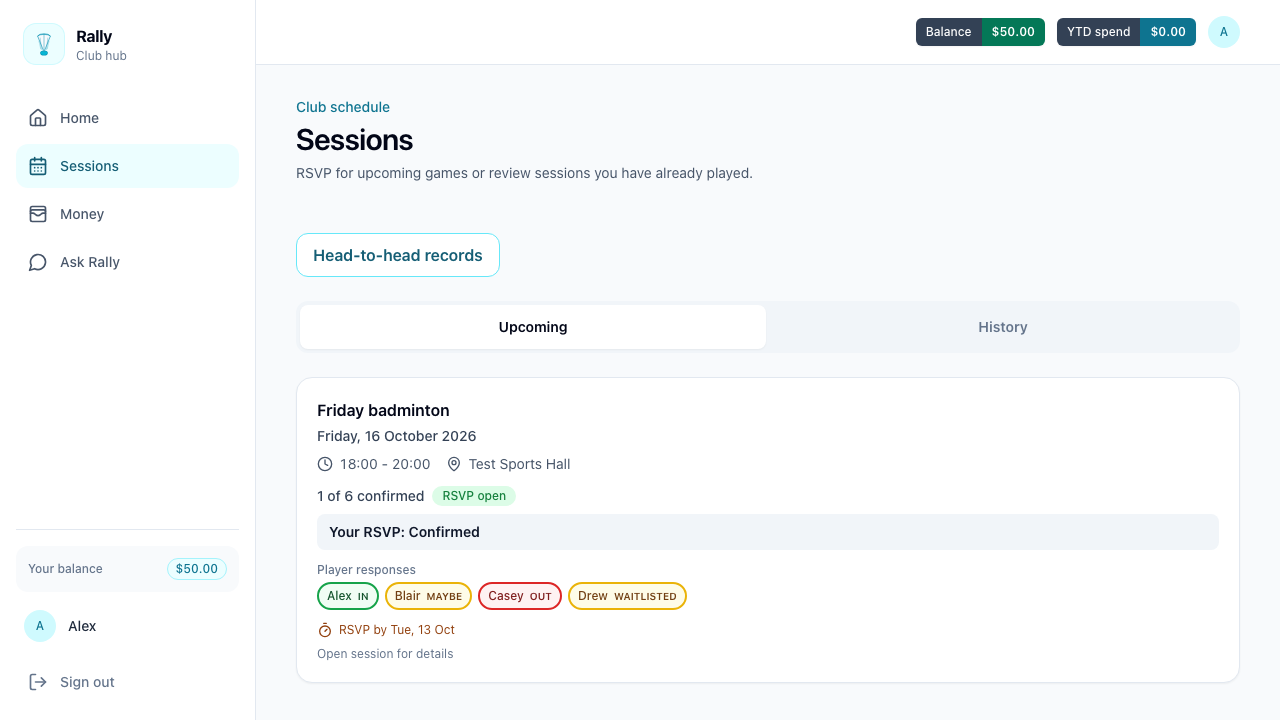
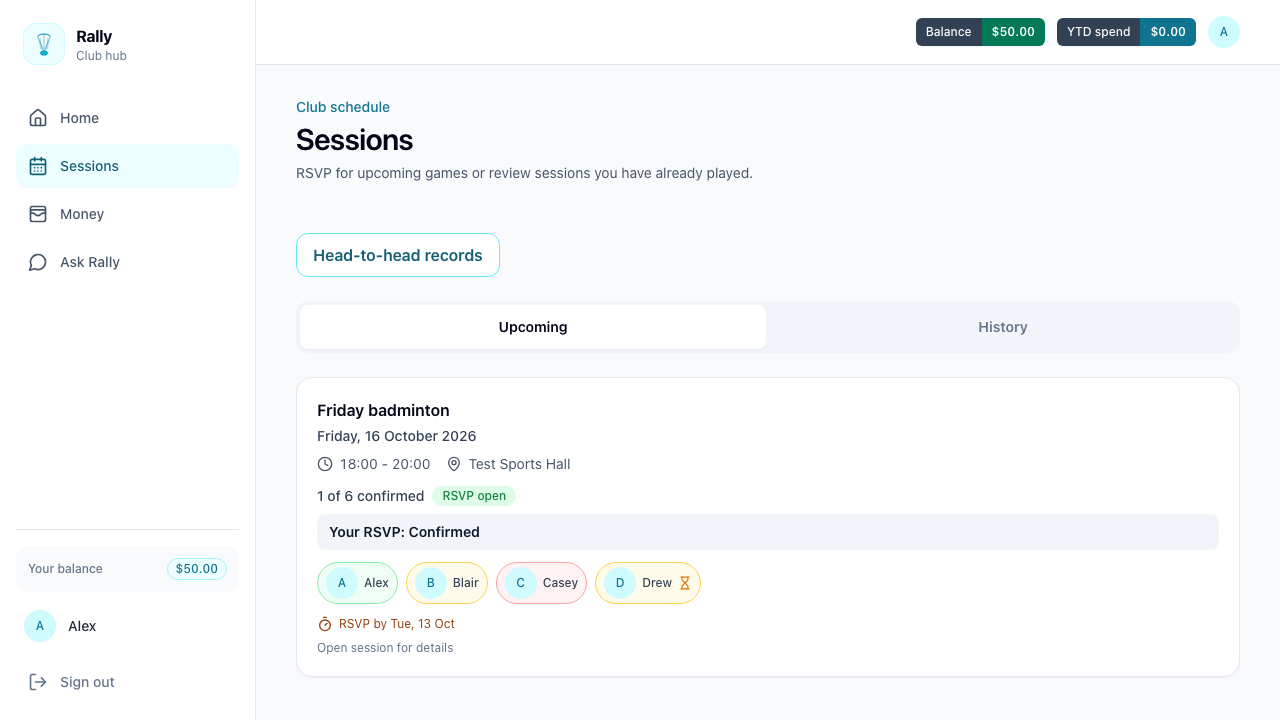
fix(sessions): restore the original member RSVP pills

Changed region(s): [[0.25, 0.7639, 0.5625, 0.9167]]

diff --git a/frontend/src/components/sessions/PlayerRSVPChips.tsx b/frontend/src/components/sessions/PlayerRSVPChips.tsx
@@ -1,13 +1,15 @@
+import { Hourglass } from 'lucide-react';
 import type { RSVP, RSVPStatus } from '../../types';
 import { displayName } from '../../utils/members';
+import Avatar from '../ui/Avatar';
 
-const responses: Record<RSVPStatus, { label: string; className: string }> = {
-  in: { label: 'IN', className: 'border-green-600 bg-green-50 text-green-900' },
-  maybe: { label: 'MAYBE', className: 'border-yellow-500 bg-yellow-50 text-yellow-900' },
-  out: { label: 'OUT', className: 'border-red-600 bg-red-50 text-red-900' },
-  waitlisted: { label: 'WAITLISTED', className: 'border-yellow-500 bg-yellow-50 text-yellow-900' },
-};
 const statusOrder: RSVPStatus[] = ['in', 'maybe', 'out', 'waitlisted'];
+const statusStyles: Record<RSVPStatus, { label: string; className: string }> = {
+  in: { label: 'Confirmed', className: 'border-green-300 bg-green-50' },
+  maybe: { label: 'Tentative', className: 'border-amber-300 bg-amber-50' },
+  out: { label: 'Not attending', className: 'border-red-300 bg-red-50' },
+  waitlisted: { label: 'Waitlisted', className: 'border-amber-300 bg-amber-50' },
+};
 
 export default function PlayerRSVPChips({ rsvps }: { rsvps: RSVP[] }) {
   if (rsvps.length === 0) {
@@ -15,19 +17,26 @@ export default function PlayerRSVPChips({ rsvps }: { rsvps: RSVP[] }) {
   }
 
   return (
-    <div>
-      <p className="mb-1 text-xs font-medium text-slate-500">Player responses</p>
-      <ul aria-label="Player responses" className="flex flex-wrap gap-1.5">
-        {statusOrder.flatMap(status => rsvps.filter(rsvp => rsvp.status === status)).map(rsvp => {
-          const { label, className } = responses[rsvp.status];
-          return (
-            <li key={rsvp.id} className={`max-w-full break-words rounded-full border-2 px-2 py-1 text-xs ${className}`}>
-              <span className="font-medium">{displayName(rsvp.user) || 'Player'}</span>
-              <span className="ml-1.5 text-[10px] font-semibold">{label}</span>
-            </li>
-          );
-        })}
-      </ul>
-    </div>
+    <ul aria-label="Player responses" className="flex flex-wrap gap-2">
+      {statusOrder.flatMap(status => rsvps.filter(rsvp => rsvp.status === status)).map(rsvp => {
+        const name = displayName(rsvp.user) || 'Player';
+        const { label, className } = statusStyles[rsvp.status];
+
+        return (
+          <li
+            key={rsvp.id}
+            aria-label={`${name}, ${label}`}
+            title={`${name}, ${label}`}
+            className={`flex max-w-full items-center gap-1.5 rounded-full border px-2 py-1 ${className}`}
+          >
+            <span aria-hidden="true" className="shrink-0">
+              <Avatar src={rsvp.user?.profile_picture} name={name} size="sm" />
+            </span>
+            <span className="max-w-[100px] truncate text-xs font-medium text-slate-700">{name}</span>
+            {rsvp.status === 'waitlisted' && <Hourglass className="h-3.5 w-3.5 shrink-0 text-amber-600" aria-hidden="true" />}
+          </li>
+        );
+      })}
+    </ul>
   );
 }

diff --git a/frontend/e2e/sessions.spec.ts b/frontend/e2e/sessions.spec.ts
@@ -94,7 +94,7 @@ test('compact cards show my response and a long confirmed roster without overflo
   expect(await page.evaluate(() => document.documentElement.scrollWidth <= window.innerWidth)).toBe(true);
 });
 
-test('cards retain IN, MAYBE, OUT and waitlisted names with coloured borders', async ({ page }) => {
+test('cards retain main RSVP pills with avatars and coloured borders', async ({ page }) => {
   const rsvps: RSVP[] = (['in', 'maybe', 'out', 'waitlisted'] as const).map((status, i) => ({
     id: `r${i}`, session_id: session.id, user_id: `player-${i}`, status,
     user: { ...member, id: `player-${i}`, nickname: ['Alex', 'Blair', 'Casey', 'Drew'][i] },
@@ -104,11 +104,12 @@ test('cards retain IN, MAYBE, OUT and waitlisted names with coloured borders', a
   await page.goto('/dashboard');
   const responses = page.getByRole('list', { name: 'Player responses' });
   for (const [name, label, colour] of [
-    ['Alex', 'IN', 'rgb(22, 163, 74)'], ['Blair', 'MAYBE', 'rgb(234, 179, 8)'],
-    ['Casey', 'OUT', 'rgb(220, 38, 38)'], ['Drew', 'WAITLISTED', 'rgb(234, 179, 8)'],
+    ['Alex', 'Confirmed', 'rgb(134, 239, 172)'], ['Blair', 'Tentative', 'rgb(252, 211, 77)'],
+    ['Casey', 'Not attending', 'rgb(252, 165, 165)'], ['Drew', 'Waitlisted', 'rgb(252, 211, 77)'],
   ]) {
-    const chip = responses.getByRole('listitem').filter({ hasText: name });
-    await expect(chip.getByText(label, { exact: true })).toBeVisible();
+    const chip = responses.getByRole('listitem', { name: `${name}, ${label}`, exact: true });
+    await expect(chip.getByText(name, { exact: true })).toBeVisible();
+    await expect(chip.locator('[aria-hidden="true"]').first()).toBeVisible();
     await expect(chip).toHaveCSS('border-color', colour);
   }
   expect(await page.evaluate(() => document.documentElement.scrollWidth <= window.innerWidth)).toBe(true);

diff --git a/frontend/src/components/sessions/SessionCard.test.tsx b/frontend/src/components/sessions/SessionCard.test.tsx
@@ -125,8 +125,8 @@ describe('SessionCard Component', () => {
     render(<MemoryRouter><SessionCard session={{ ...baseSession, rsvps: [confirmed, absent] }} currentUserId="u3" /></MemoryRouter>);
     expect(screen.getByRole('list', { name: 'Player responses' })).toHaveTextContent('Player');
     expect(screen.getByText('Absent player')).toBeInTheDocument();
-    expect(screen.getByText('OUT')).toBeInTheDocument();
-    expect(screen.getByText('IN')).toBeInTheDocument();
+    expect(screen.getByRole('listitem', { name: 'Absent player, Not attending' })).toBeInTheDocument();
+    expect(screen.getByRole('listitem', { name: 'Player, Confirmed' })).toBeInTheDocument();
     expect(screen.getByText('Your RSVP: Not responded')).toBeInTheDocument();
   });
 
